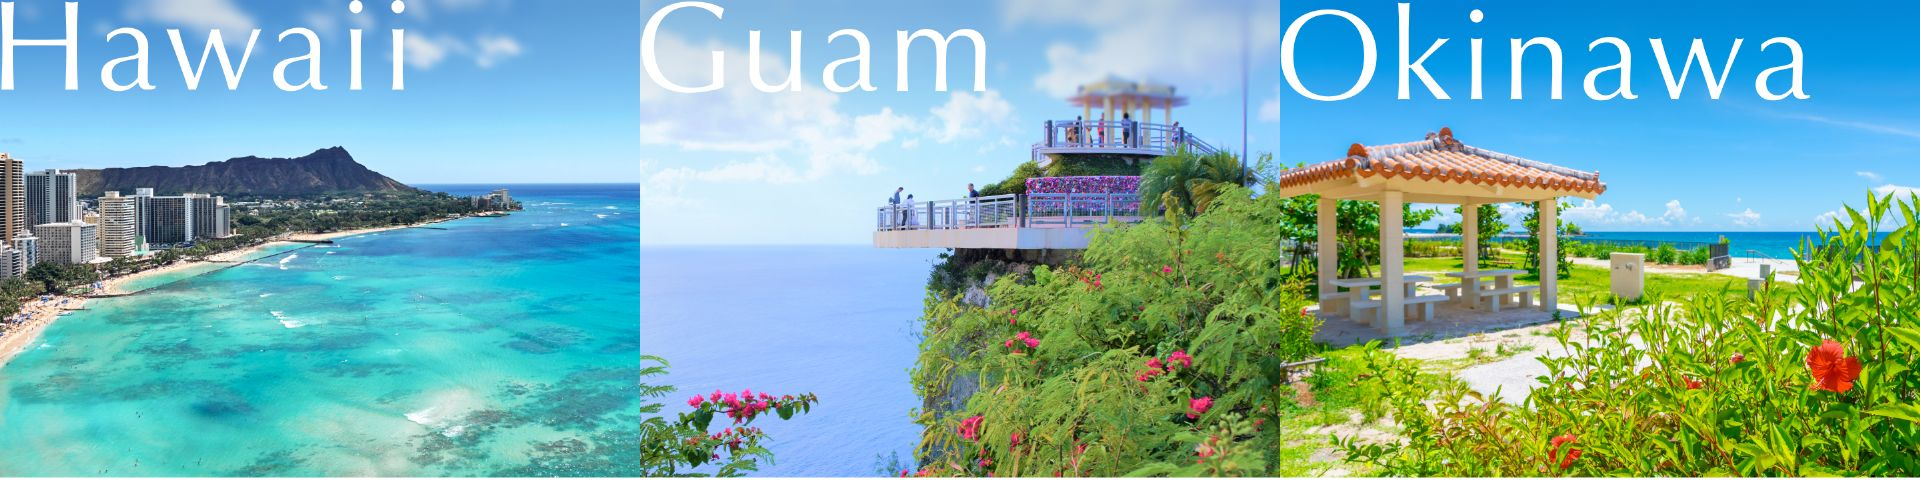
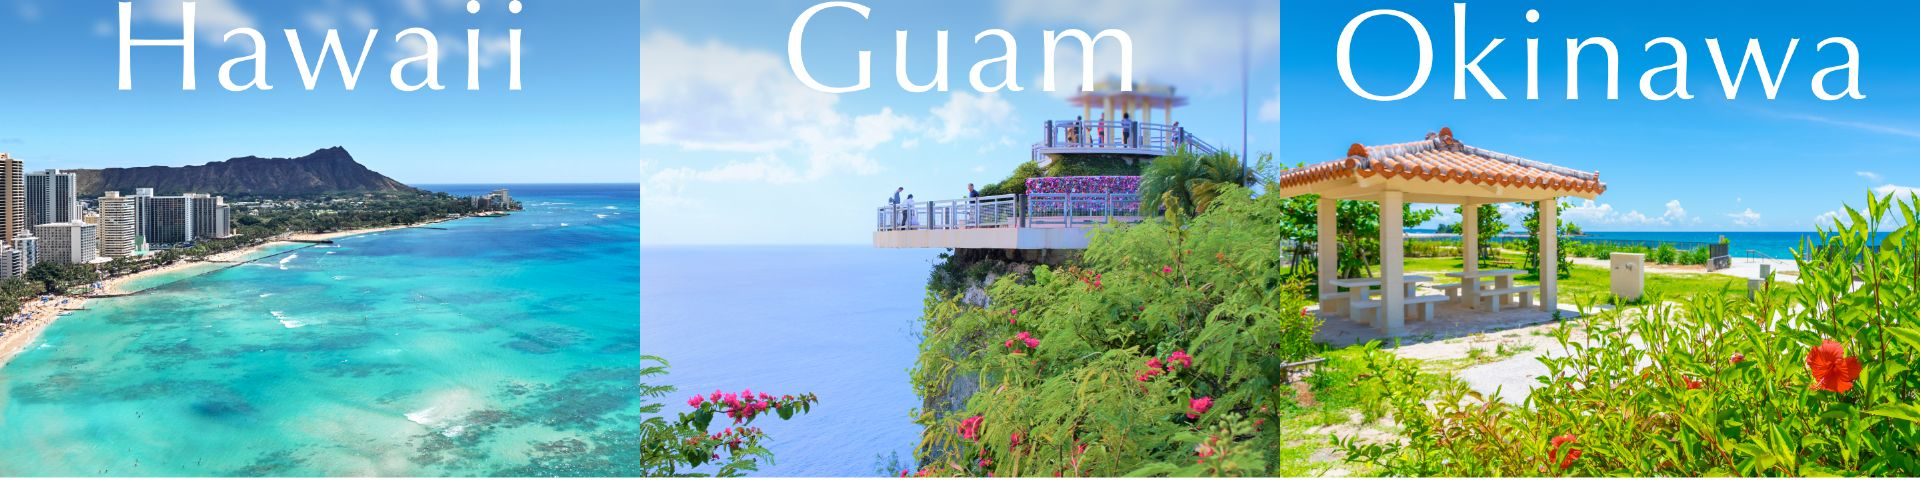
-fix：エリア比較ページ 修正分

diff --git a/theme/andresortwedding-ver1.0/assets/sass/pg/_pgareacompare.scss b/theme/andresortwedding-ver1.0/assets/sass/pg/_pgareacompare.scss
@@ -2299,6 +2299,51 @@
           }
         }
       }
+      &__recommend {
+        padding: 1.66vw;
+        justify-content: space-between;
+        &-inner {
+          width: 51.63%;
+          p {
+            align-items: flex-end;
+            font-size: 12px;
+            font-weight: 600;
+            gap: 2.23%;
+            justify-content: center;
+            text-align: center;
+            width: 100%;
+            @include bp(m) {
+              font-size: clamp(0px,1.11vw,16px);
+            }
+            &::before,
+            &::after {
+              aspect-ratio: 1/2;
+              background: url(../../assets/images/area/compare/ttl_accent_blk.svg) center center /contain no-repeat;
+              content: "";
+              display: block;
+              margin-bottom: 0;
+              @include bp(m) {
+                max-width: 10px;
+                width: 0.69vw;
+              }
+            }
+            &::after {
+              transform: scale(-1, 1);
+            }
+          }
+          img {
+            display: block;
+            margin: 24px auto 0;
+            width: 85.04%;
+          }
+          &:first-child {
+            width: 47.57%;
+            img {
+              width: 92.3%;
+            }
+          }
+        }
+      }
       .link {
         margin: 24px 0;
         @include bp(m) {

diff --git a/theme/andresortwedding-ver1.0/components/pgAreaCompare/diagnosis.php b/theme/andresortwedding-ver1.0/components/pgAreaCompare/diagnosis.php
@@ -8,6 +8,8 @@
       'cost' => '約123万円',
       'avg' => '19人',
       'link' => 'okinawa',
+      'gourmet' => 'img_okinawa_gourmet_04.jpg',
+      'culture' => 'img_okinawa_spend_01.jpg',
     ],
     [
       'img-sp' => 'img_result_guam.jpg',
@@ -17,6 +19,8 @@
       'cost' => '約146万円',
       'avg' => '8.7人',
       'link' => 'guam',
+      'gourmet' => 'img_guam_gourmet_04.jpg',
+      'culture' => 'img_guam_spend_01.jpg',
     ],
     [
       'img-sp' => 'img_result_hawaii.jpg',
@@ -26,18 +30,20 @@
       'cost' => '約156万円',
       'avg' => '7.8人',
       'link' => 'hawaii',
+      'gourmet' => 'img_hawaii_gourmet_04.jpg',
+      'culture' => 'img_hawaii_spend_01.jpg',
     ],
   ];
   $recommend = [
     'gourmet' => [
-      'img_hawaii_gourmet_04.jpg',
-      'img_guam_gourmet_04.jpg',
       'img_okinawa_gourmet_04.jpg',
+      'img_guam_gourmet_04.jpg',
+      'img_hawaii_gourmet_04.jpg',
     ],
     'culture' => [
-      'img_hawaii_spend_01.jpg',
-      'img_guam_spend_01.jpg',
       'img_okinawa_spend_01.jpg',
+      'img_guam_spend_01.jpg',
+      'img_hawaii_spend_01.jpg',
     ],
   ];
 ?>
@@ -208,32 +214,46 @@
               <p class="flex"><span class="main">平均ゲスト人数</span><br class="sp"/><span><?php echo $item["avg"]; ?></span></p>
             </div>
           </div>
+          <div class="pc">
+            <div class="item__recommend flex bg-beg-3">
+              <div class="item__recommend-inner">
+                <p class="flex"><span>おすすめグルメ</span></p>
+                <img src="<?php echo esc_url(get_theme_file_uri('assets/images/area/compare/'. $item["gourmet"])); ?>" alt="おすすめグルメ">
+              </div>
+              <div class="item__recommend-inner">
+                <p class="flex"><span>おすすめの過ごし方</span></p>
+                <img src="<?php echo esc_url(get_theme_file_uri('assets/images/area/compare/'. $item["culture"])); ?>" alt="おすすめの過ごし方">
+              </div>
+            </div>
+          </div>
           <p class="link">
             <a href="<?php echo esc_url(home_url($item["link"]));?>"><span>くわしく見る</span></a>
           </p>
         </li>
       <?php endforeach;?>
     </ul>
-    <div class="pgAreaCompare__diagnosis-recommend bg-beg-3 flex fade-anime" data-fade="fade-up">
-      <div class="inner__gourmet bg-beg-3">
-        <p class="main flex"><span>おすすめグルメ</span></p>
-        <ul class="ls flex">
-          <?php foreach ($recommend['gourmet'] as $gourmet) : ?>
-            <li class="ls__item">
-              <img src="<?php echo esc_url(get_theme_file_uri('assets/images/area/compare/'. $gourmet)); ?>" alt="グルメイメージ">
-            </li>
-          <?php endforeach;?>
-        </ul>
-      </div>
-      <div class="inner__culture bg-beg-3">
-        <p class="main flex"><span>おすすめの過ごし方</span></p>
-        <ul class="ls flex">
-          <?php foreach ($recommend['culture'] as $culture) : ?>
-            <li class="ls__item">
-              <img src="<?php echo esc_url(get_theme_file_uri('assets/images/area/compare/'. $culture)); ?>" alt="カルチャーイメージ">
-            </li>
-          <?php endforeach;?>
-        </ul>
+    <div class="sp">
+      <div class="pgAreaCompare__diagnosis-recommend bg-beg-3 flex fade-anime" data-fade="fade-up">
+        <div class="inner__gourmet bg-beg-3">
+          <p class="main flex"><span>おすすめグルメ</span></p>
+          <ul class="ls flex">
+            <?php foreach ($recommend['gourmet'] as $gourmet) : ?>
+              <li class="ls__item">
+                <img src="<?php echo esc_url(get_theme_file_uri('assets/images/area/compare/'. $gourmet)); ?>" alt="グルメイメージ">
+              </li>
+            <?php endforeach;?>
+          </ul>
+        </div>
+        <div class="inner__culture bg-beg-3">
+          <p class="main flex"><span>おすすめの過ごし方</span></p>
+          <ul class="ls flex">
+            <?php foreach ($recommend['culture'] as $culture) : ?>
+              <li class="ls__item">
+                <img src="<?php echo esc_url(get_theme_file_uri('assets/images/area/compare/'. $culture)); ?>" alt="カルチャーイメージ">
+              </li>
+            <?php endforeach;?>
+          </ul>
+        </div>
       </div>
     </div>
     <p class="pgAreaCompare__diagnosis-summary pc fade-anime" data-fade="fade-up">
